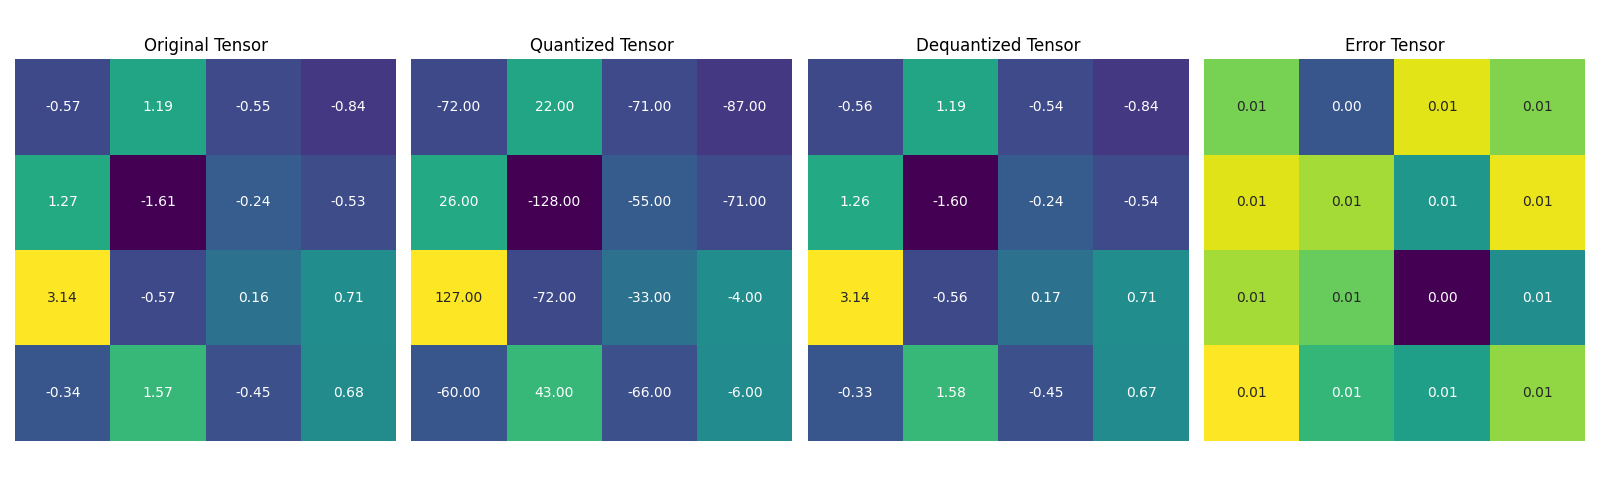
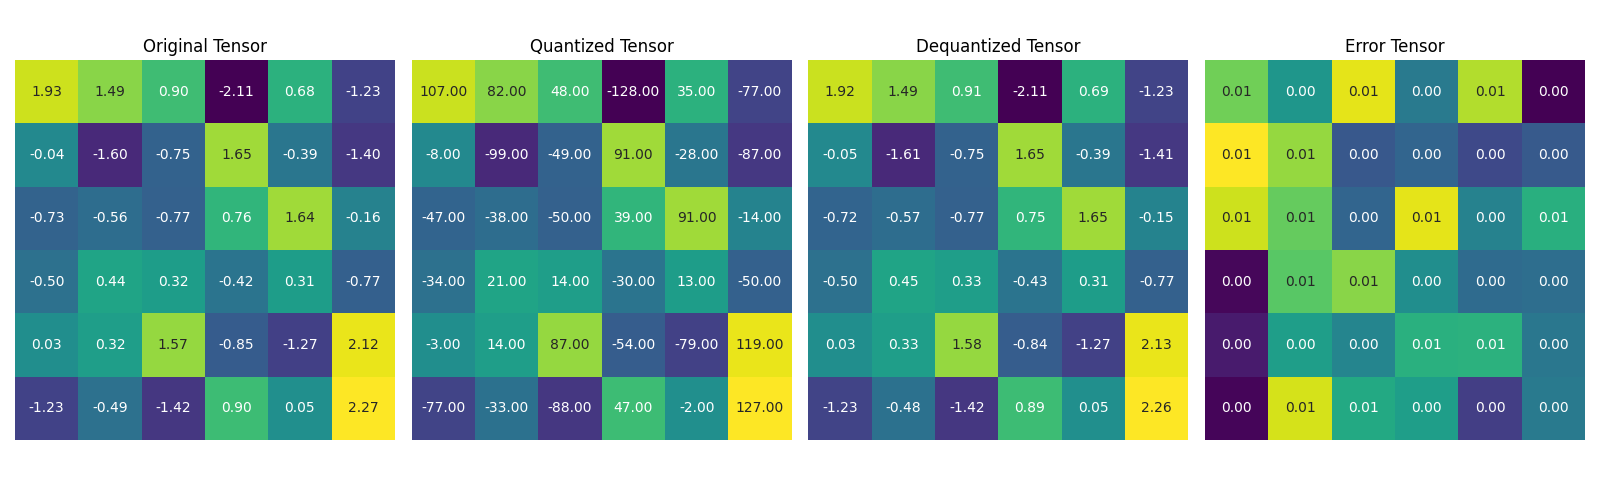
Per-Group Linear Quantization is implemented.

diff --git a/Linear_Quantization_Implementation/main.py b/Linear_Quantization_Implementation/main.py
@@ -14,8 +14,11 @@ def get_scale_and_zero_point(tensor: torch.Tensor, dtype: torch.dtype):
     scale = (r_max - r_min) / (q_max - q_min)
     zero_point = int(round(q_min - (r_min / scale)))
     
-    if zero_point < q_min or zero_point > q_max:
+    if zero_point < q_min:
         zero_point = q_min
+    
+    if zero_point > q_max:
+        zero_point = q_max
     
     return scale, zero_point
 
@@ -39,9 +42,32 @@ def get_per_channel_scales(tensor: torch.Tensor, dim, dtype: torch.dtype = torch
     zero_points = zero_points.view(scales_shape)
     
     return scales, zero_points
+
+def get_per_group_scales(tensor: torch.Tensor, dim: int, group_size: int, dtype: torch.dtype = torch.int8):
+    tensor_shape = tensor.shape
+    assert tensor_shape[dim] % group_size == 0
+    assert tensor.dim() == 2
     
-def linear_quantization(tensor: torch.Tensor, scale, zero_point, dtype: torch.dtype):
-    scaled_and_shifted_tensor = tensor / scale + zero_point
+    num_groups = tensor_shape[0] * tensor_shape[1] // group_size
+    scales = torch.zeros(num_groups)
+    zero_points = torch.zeros(num_groups)
+    
+    tensor = tensor.view(-1, group_size)
+    for i in range(num_groups):
+        scales[i] = get_scale(tensor.select(dim, i), dtype=dtype)[0]
+    
+    scales = scales.reshape(-1, 1)
+    zero_points = zero_points.reshape(-1, 1)
+    
+    return scales, zero_points
+    
+def linear_quantization(tensor: torch.Tensor, scale, zero_point, dtype: torch.dtype, group_size: int = 0):
+    if group_size != 0:
+        scaled_and_shifted_tensor = tensor.reshape(-1, group_size) / scale + zero_point
+        scaled_and_shifted_tensor = scaled_and_shifted_tensor.reshape(tensor.shape)
+    else:
+        scaled_and_shifted_tensor = tensor / scale + zero_point
+    
     rounded_tensor = torch.round(scaled_and_shifted_tensor)
     
     q_min = torch.iinfo(dtype).min
@@ -51,7 +77,9 @@ def linear_quantization(tensor: torch.Tensor, scale, zero_point, dtype: torch.dt
     
     return q_tensor
 
-def linear_dequantization(q_tensor, scale, zero_point):
+def linear_dequantization(q_tensor: torch.Tensor, scale, zero_point, group_size: int = 0):
+    if group_size != 0:
+        return (q_tensor.reshape(-1, group_size) * scale - zero_point).reshape(q_tensor.shape)
     return scale * (q_tensor.float() - zero_point)
 
 def plot_matrices(tensor, q_tensor, deq_tensor, err_tensor, name):
@@ -73,37 +101,31 @@ def main():
     parser.add_argument(
         "--quant_type", 
         default="asymmetric",
-        choices=["asymmetric", "symmetric", "per_channel"],
+        choices=["asymmetric", "symmetric", "per_channel", "per_group"],
         type=str
     )
-    parser.add_argument(
-        "--dim", 
-        default=0,
-        choices=[0, 1], 
-        type=int
-    )
+    parser.add_argument("--dim", default=0, choices=[0, 1], type=int)
+    parser.add_argument("--group_size", default=0, type=int)
+    parser.add_argument("--seed", default=42, type=int)
     args = parser.parse_args()
     
-    # tensor = torch.randn((4, 4))
-    tensor = torch.tensor([
-        [224.3, 112.4, -28.6, 53.9],
-        [456.2, 110, 15.5, -29.6],
-        [114.4, 256.3, 127.3, -99.4],
-        [-24.3, 54.3, 65.8, 48.6]
-    ])
+    torch.manual_seed(args.seed)
+    tensor = torch.randn((6, 6))
     print(f"Tensor:\n{tensor}")
     
     if args.quant_type == "asymmetric":
         scale, zero_point = get_scale_and_zero_point(tensor, torch.int8)
     elif args.quant_type == "symmetric":
         scale, zero_point = get_scale(tensor, torch.int8)
-    else:
+    elif args.quant_type == "per_channel":
         scale, zero_point = get_per_channel_scales(tensor, dim=args.dim)
+    else:
+        scale, zero_point = get_per_group_scales(tensor, dim=args.dim, group_size=args.group_size)
     
-    q_tensor = linear_quantization(tensor, scale, zero_point, torch.int8)
+    q_tensor = linear_quantization(tensor, scale, zero_point, torch.int8, group_size=args.group_size)
     print(f"\nQuantized Tensor:\n{q_tensor}")
 
-    deq_tensor = linear_dequantization(q_tensor, scale, zero_point)
+    deq_tensor = linear_dequantization(q_tensor, scale, zero_point, group_size=args.group_size)
     print(f"\nDequantized Tensor:\n{deq_tensor}")
 
     err_tensor = abs(tensor - deq_tensor)
